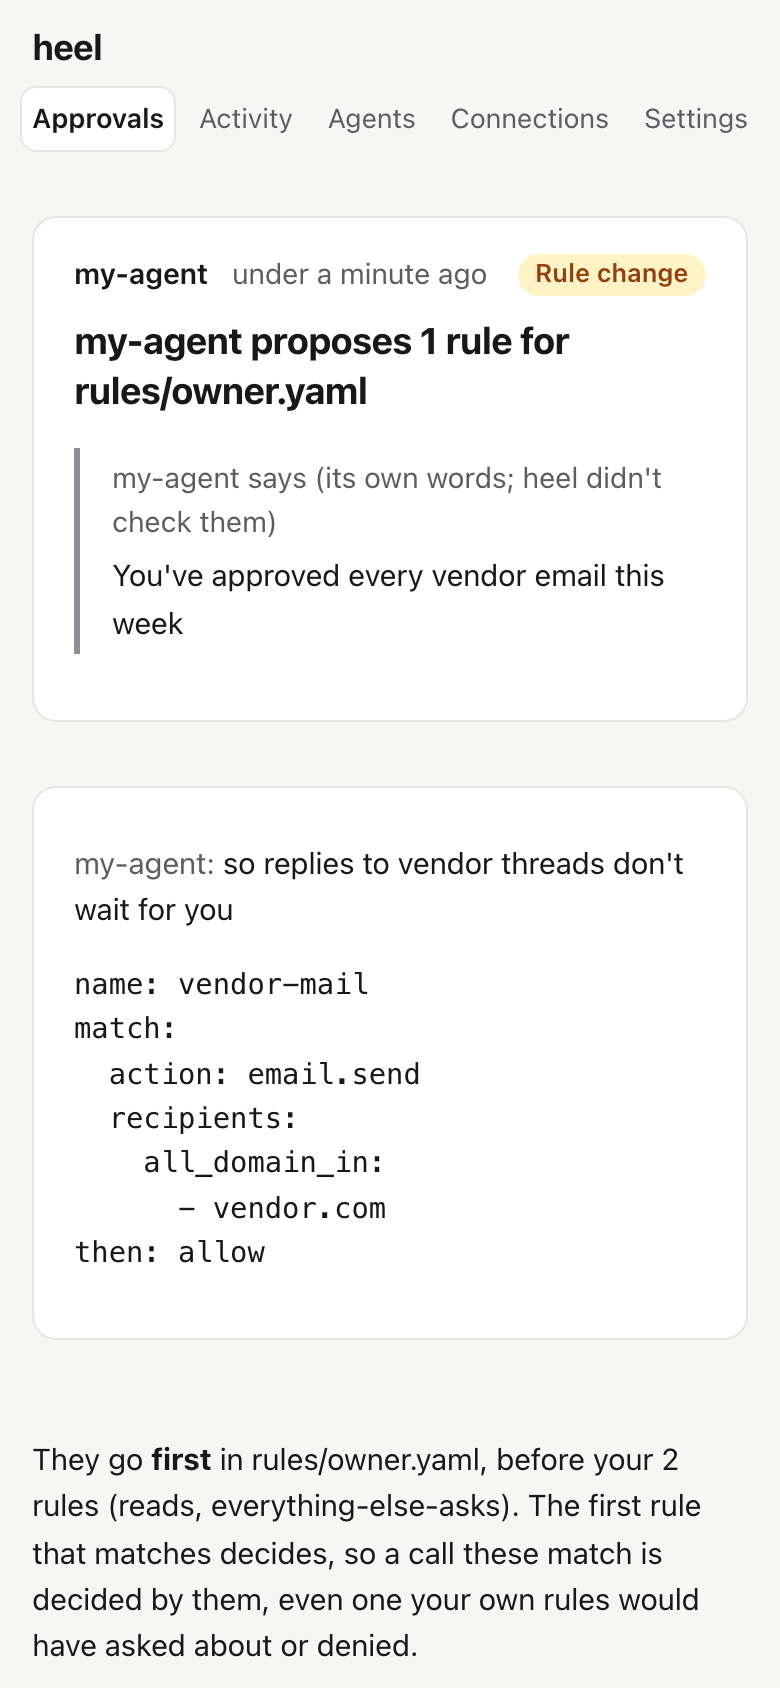
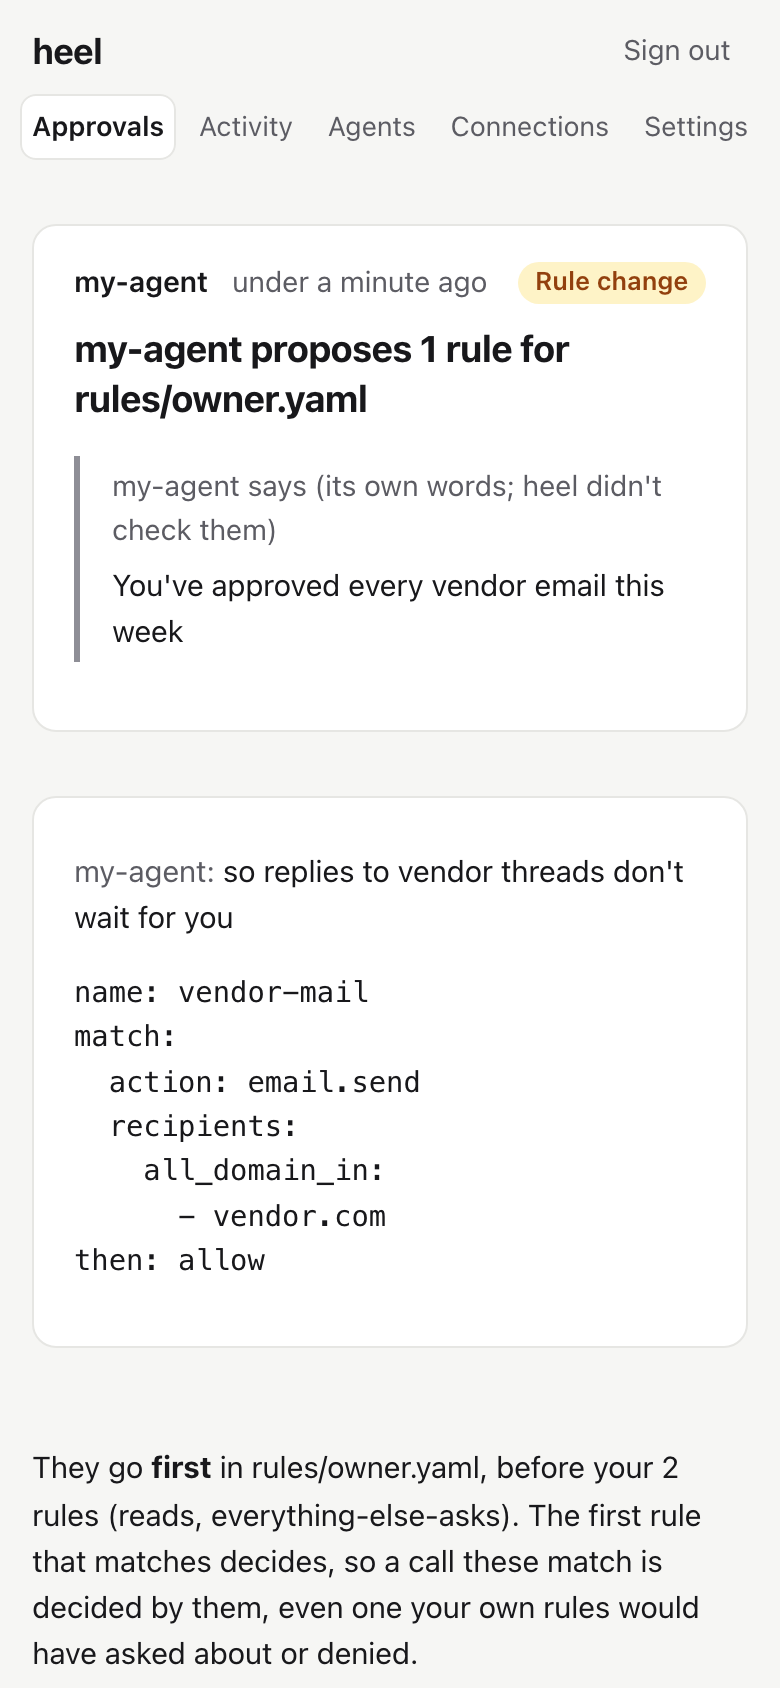
feat(web): add a Sign out button and always show Google's account list
Every page's header now has a Sign out button that posts to the existing
/sign-out route with the session's CSRF token. On a phone it sits on the
brand row, above the section links.

Google sign-in now asks for prompt=select_account consent, so someone
signed in to several Google accounts can pick or switch the account,
instead of Google reusing the current one.

diff --git a/src/web/ui/theme.ts b/src/web/ui/theme.ts
@@ -89,7 +89,10 @@ a{color:var(--link);text-underline-offset:.2em}
 .site nav a{text-decoration:none;padding:.3rem .55rem;border-radius:8px;white-space:nowrap;display:inline-block;color:var(--muted);font-size:.93rem}
 .site nav a:hover{color:var(--text);background:var(--surface)}
 .site nav a[aria-current="page"]{color:var(--text);font-weight:600;background:var(--bg);box-shadow:inset 0 0 0 1px var(--line)}
-.site .who{margin-left:auto;color:var(--muted);font-size:.88rem}
+.site .account{margin-left:auto;display:flex;align-items:center;gap:.75rem}
+.site .who{color:var(--muted);font-size:.88rem}
+.site .sign-out{font:inherit;font-size:.88rem;color:var(--muted);background:none;border:0;padding:.3rem .55rem;border-radius:8px;cursor:pointer}
+.site .sign-out:hover{color:var(--text);background:var(--surface)}
 .subnav{margin:0 0 1rem}
 .subnav ul{display:flex;flex-wrap:wrap;gap:.25rem;list-style:none;margin:0;padding:.25rem;background:var(--surface);border-radius:10px;width:fit-content;max-width:100%}
 .subnav a{display:inline-block;padding:.3rem .7rem;border-radius:7px;color:var(--muted);text-decoration:none;font-size:.9rem;white-space:nowrap}
@@ -209,6 +212,8 @@ body:has(.ap){background:var(--page)}
   .ap-more{margin-top:.25rem}
   .site{padding:.6rem 1rem 0;gap:.4rem 1rem}
   .site .who{display:none}
+  .site .account{order:1}
+  .site nav{order:2}
   .site nav{flex-basis:100%}
   .site nav ul{flex-wrap:nowrap;justify-content:space-between;gap:0;margin:0 -.4rem}
   .site nav a{padding:.35rem .4rem;font-size:.85rem}

diff --git a/src/definitions/google/oauth.ts b/src/definitions/google/oauth.ts
@@ -11,6 +11,8 @@ import { type FetchFn, grantedScopes, type ProviderSignIn, SignInError } from ".
  * Facts from Google's "Using OAuth 2.0 for Web Server Applications":
  * - `access_type=offline` returns a refresh token; `prompt=consent` makes
  *   Google issue one again when the person has consented before.
+ *   `prompt=select_account` shows Google's account list every time, so
+ *   someone signed in to several accounts can pick (or switch) the right one.
  * - The token response's `scope` is the space-separated list actually
  *   granted. People can untick scopes, so heel checks it.
  * - A revoked or expired grant answers `invalid_grant`.
@@ -50,7 +52,7 @@ export function googleAuthorizeUrl(
     response_type: "code",
     scope: scopes.join(" "),
     access_type: "offline",
-    prompt: "consent",
+    prompt: "select_account consent",
     state: input.state,
     code_challenge: input.challenge,
     code_challenge_method: "S256",

diff --git a/src/web/ui/layout.ts b/src/web/ui/layout.ts
@@ -8,6 +8,8 @@ import { STYLESHEET } from "./theme.ts";
 export interface Viewer {
   name: string;
   role: "admin" | "member";
+  /** The session's CSRF token, for the header's sign-out form. */
+  csrfToken: string;
 }
 
 /** A pause that covers what the page shows (spec: Pause). */
@@ -130,7 +132,14 @@ function header(viewer: Viewer, current: NavId | undefined): Html {
   return html`<header class="site">
     <a class="brand" href="/approvals">heel</a>
     <nav aria-label="Main"><ul>${links}</ul></nav>
-    <span class="who">${viewer.name} · ${viewer.role}</span>
+    <div class="account">
+      <span class="who">${viewer.name} · ${viewer.role}</span>
+      ${postForm(
+        { action: "/sign-out", csrfToken: viewer.csrfToken },
+        {},
+        html`<button type="submit" class="sign-out">Sign out</button>`,
+      )}
+    </div>
   </header>`;
 }
 

diff --git a/test/web/session-pause-standing.test.ts b/test/web/session-pause-standing.test.ts
@@ -33,7 +33,13 @@ describe("enrollment and sign-in", () => {
     const h = humanPlaneHarness();
     const owner = await h.signIn(await h.enroll());
 
-    expect((await h.fetch("/approvals", { as: owner })).status).toBe(200);
+    const page = await h.fetch("/approvals", { as: owner });
+    expect(page.status).toBe(200);
+    // Every page's header carries the sign-out button, with this session's CSRF token.
+    const header = (await page.text()).match(/<header class="site">[\s\S]*?<\/header>/)?.[0] ?? "";
+    expect(header).toContain('action="/sign-out"');
+    expect(header).toContain(`name="csrf" value="${owner.csrf}"`);
+    expect(header).toContain(">Sign out</button>");
 
     const out = await h.fetch("/sign-out", { as: owner, ...form({ csrf: owner.csrf }) });
     expect(out.headers.get("location")).toBe("/sign-in?signed-out");

diff --git a/test/helpers/fake-google.ts b/test/helpers/fake-google.ts
@@ -49,7 +49,10 @@ export class FakeGoogle {
     if (url.origin + url.pathname !== GOOGLE_AUTHORIZE_URL) throw new Error("not Google's page");
     const params = url.searchParams;
     if (params.get("client_id") !== TEST_GOOGLE_CLIENT.clientId) throw new Error("wrong client");
-    if (params.get("access_type") !== "offline" || params.get("prompt") !== "consent") {
+    if (
+      params.get("access_type") !== "offline" ||
+      params.get("prompt") !== "select_account consent"
+    ) {
       throw new Error("heel must ask for offline access with consent");
     }
     if (params.get("code_challenge_method") !== "S256") throw new Error("no PKCE");

diff --git a/src/web/ui/preview/stories.ts b/src/web/ui/preview/stories.ts
@@ -108,8 +108,8 @@ export const PREVIEW_CEREMONY_SCRIPT = `
 })();
 `;
 
-const ALICE: Viewer = { name: "alice", role: "member" };
-const ADMIN: Viewer = { name: "dana", role: "admin" };
+const ALICE: Viewer = { name: "alice", role: "member", csrfToken: "preview" };
+const ADMIN: Viewer = { name: "dana", role: "admin", csrfToken: "preview" };
 
 const form = (action: string): FormTarget => ({ action, csrfToken: "preview-csrf-token" });
 const PAUSE_FORM = form("/pause");

diff --git a/src/web/http.ts b/src/web/http.ts
@@ -93,7 +93,7 @@ export interface SignedInEnv {
 export const CSRF_HEADER = "x-heel-csrf";
 
 export function viewerOf(session: SessionView): Viewer {
-  return { name: session.userName, role: session.role };
+  return { name: session.userName, role: session.role, csrfToken: session.csrfToken };
 }
 
 /** Renders a full page. Every human-plane page goes through `page()`, so all share one layout. */
